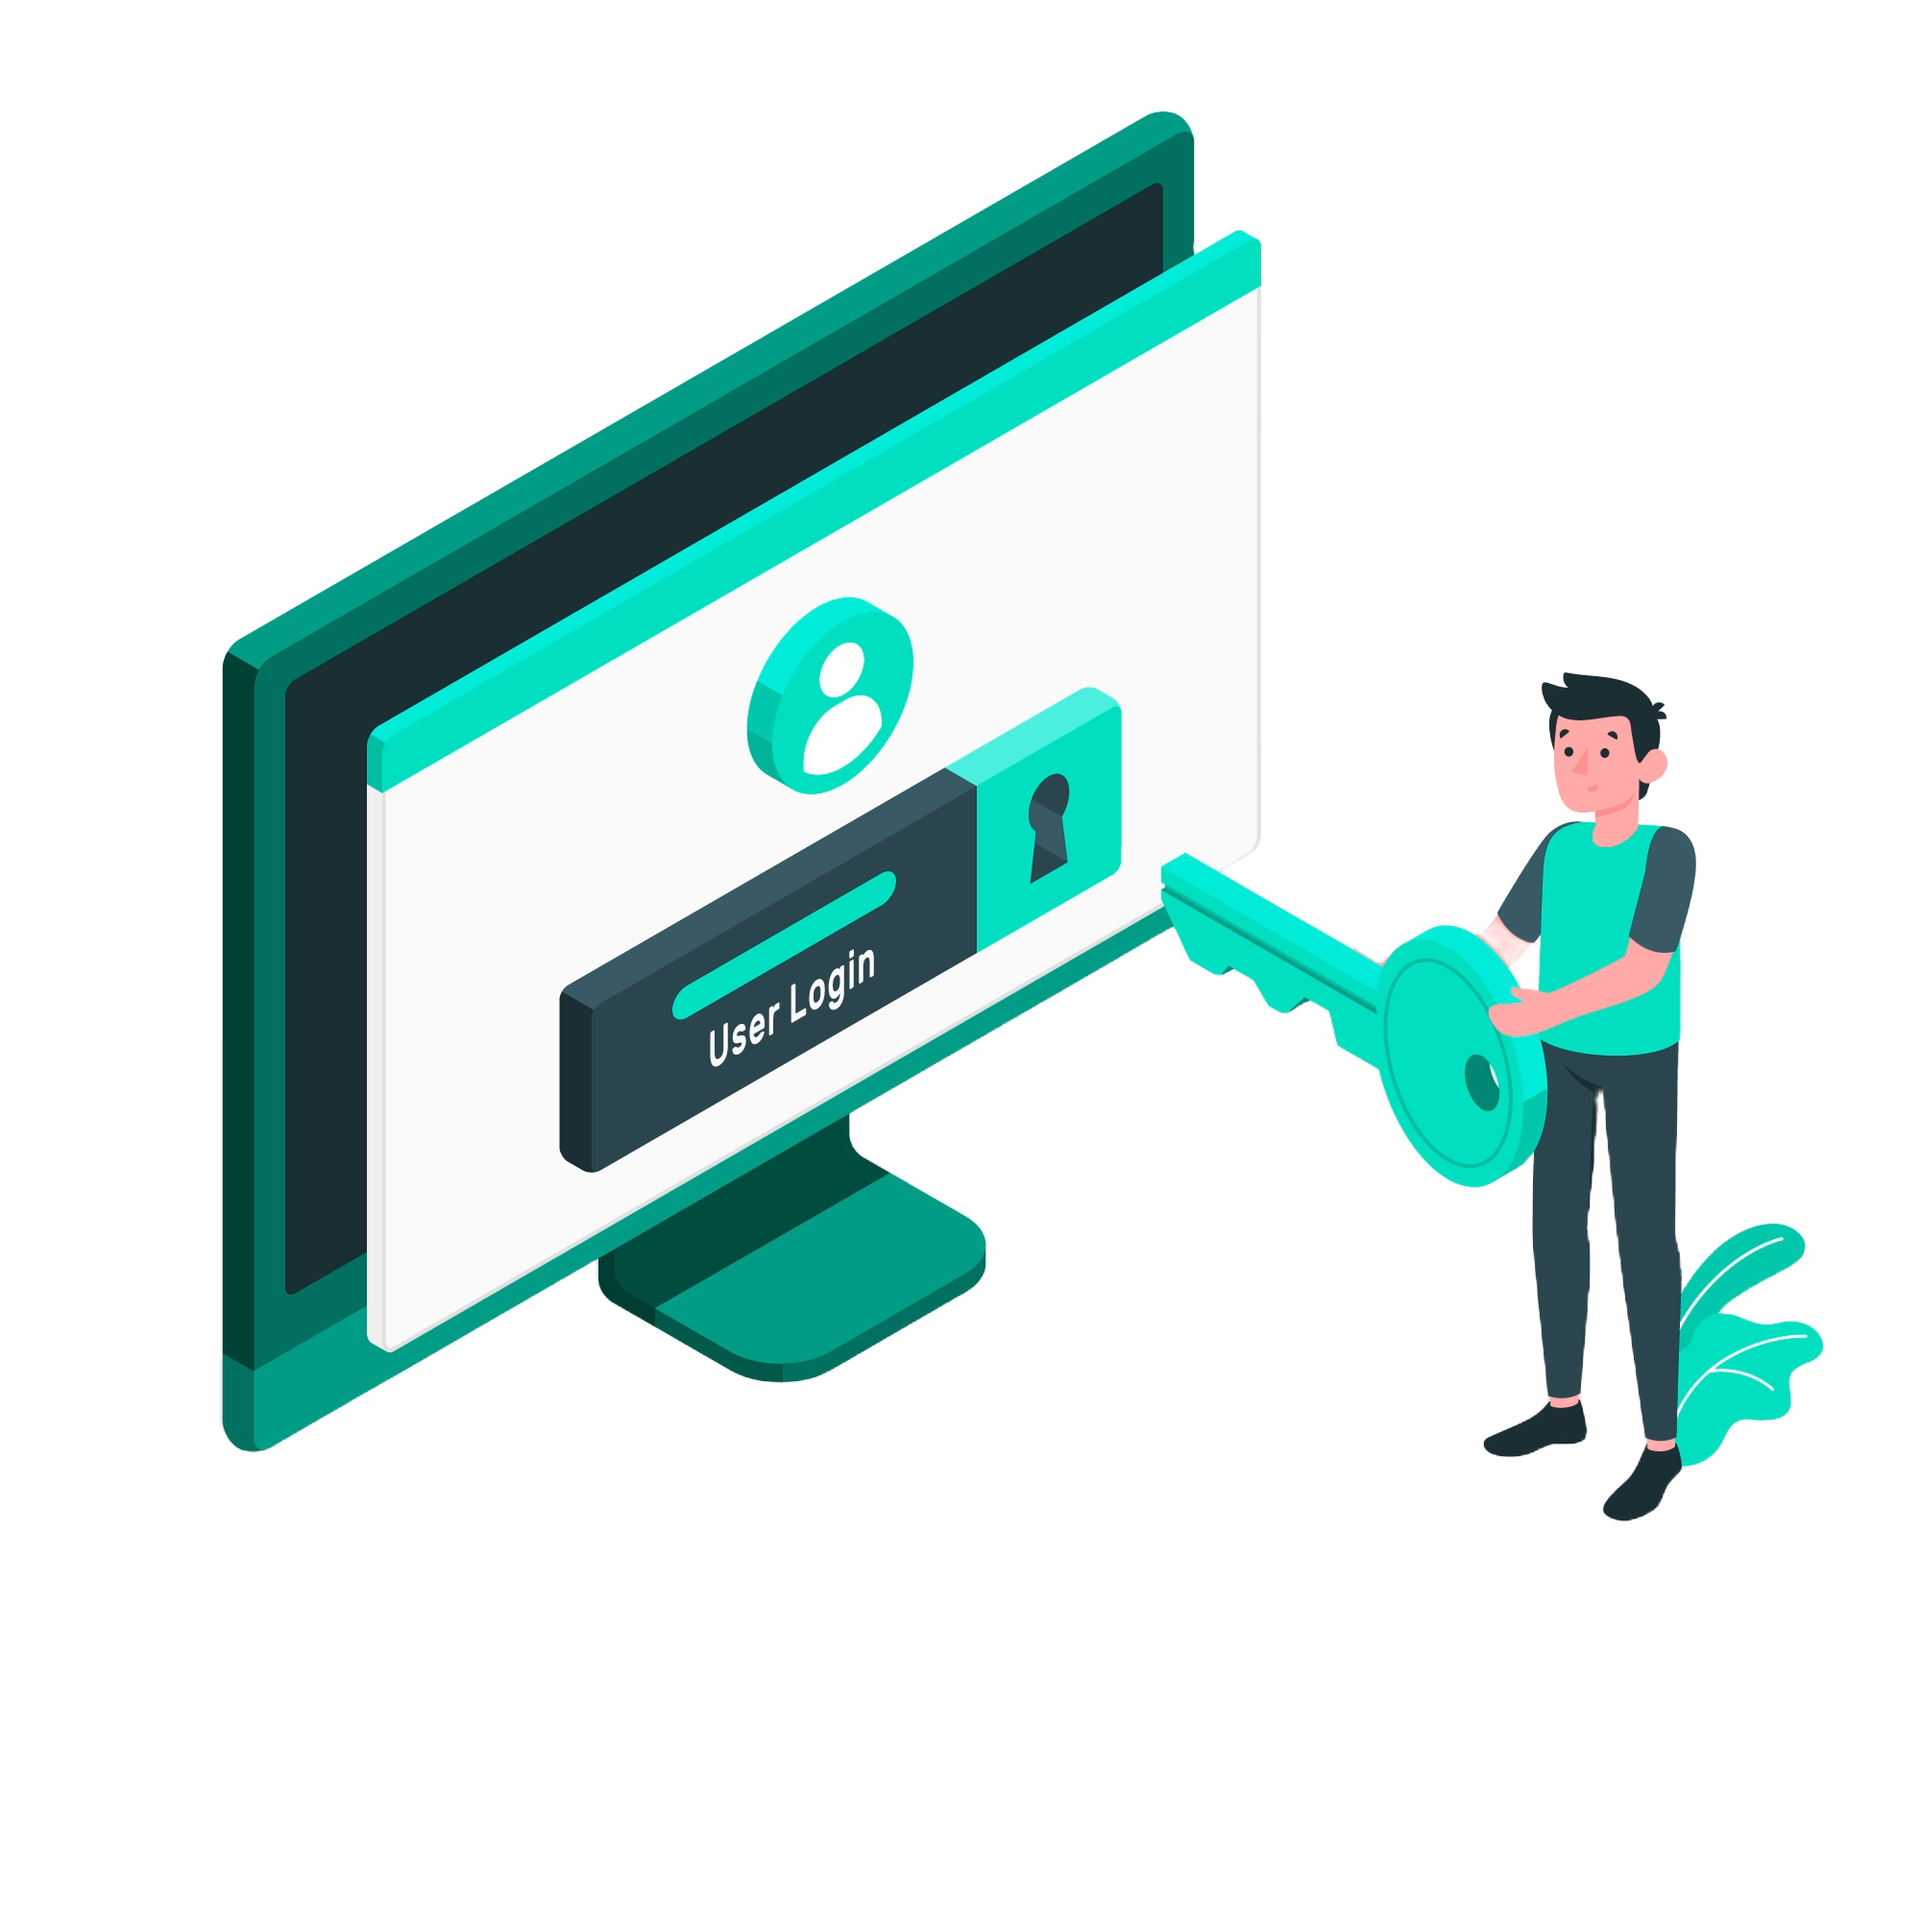
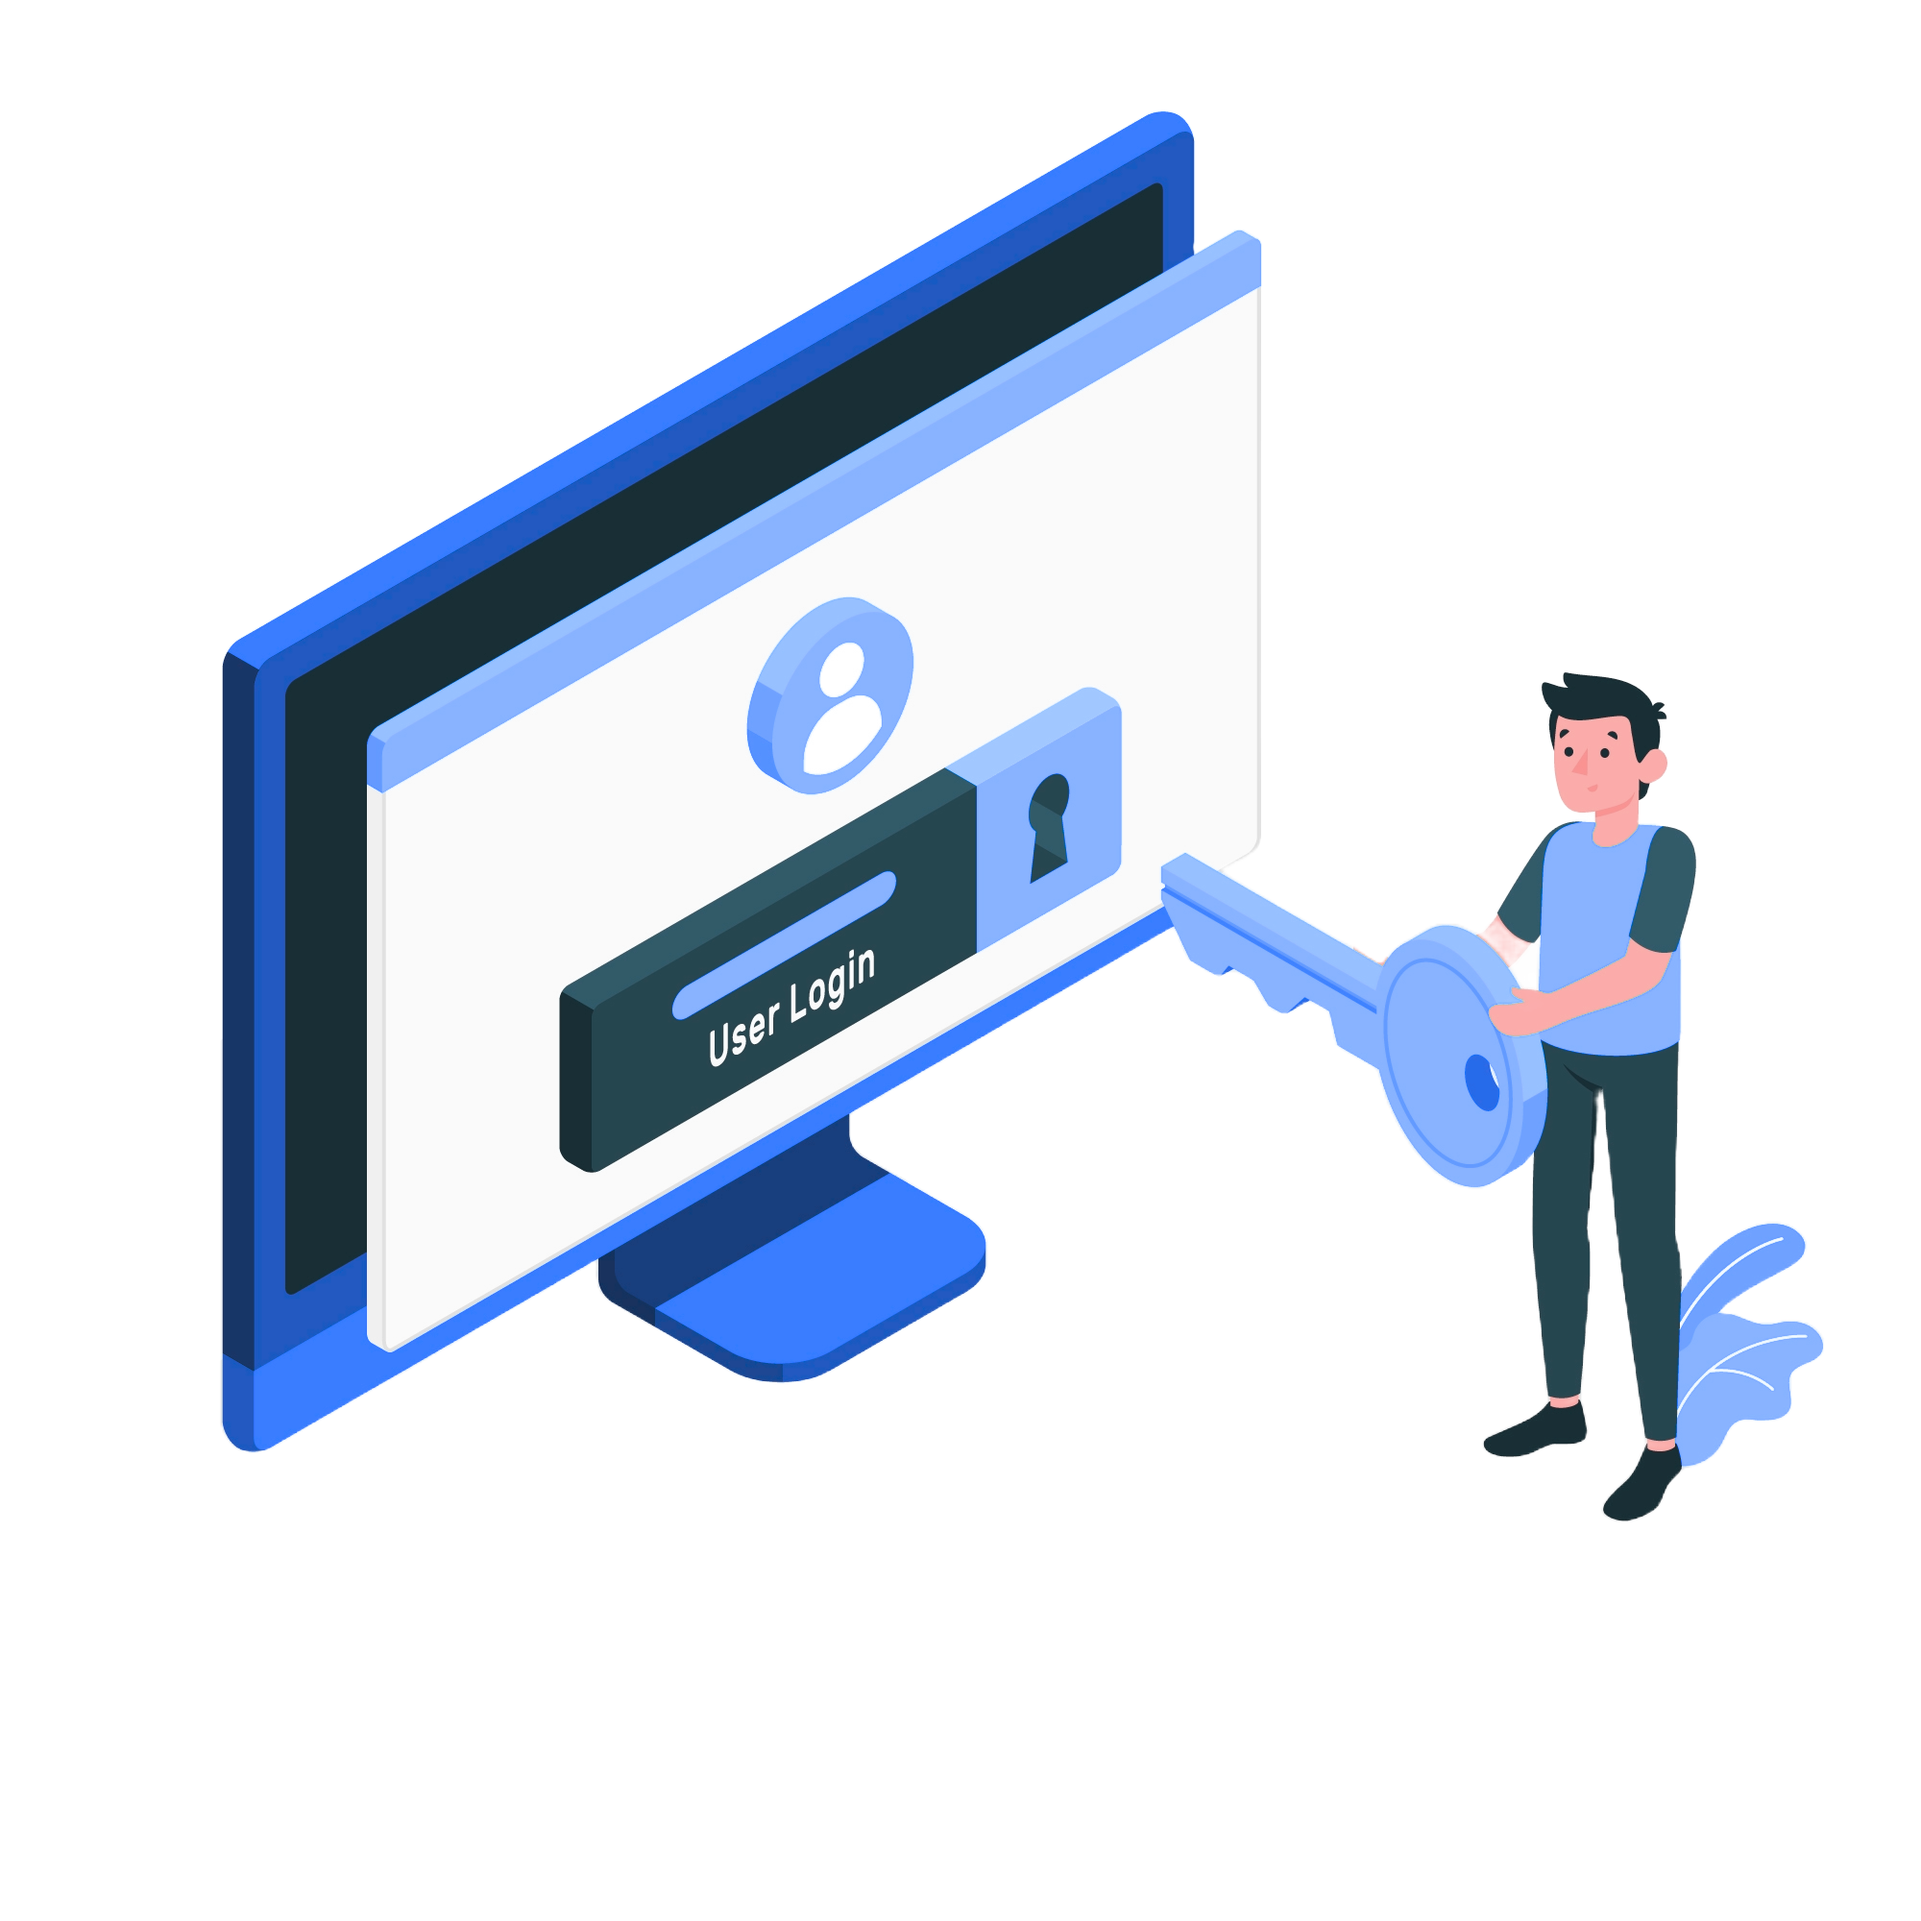
commit

diff --git a/src/App.css b/src/App.css
@@ -134,7 +134,7 @@ p {
 .authPage .container form .inputTag div svg {
   width: 10%;
   font-size: 1.5rem;
-  background: #044199;
+  background: #2cd7e0;
   height: 100%;
   padding: 8px;
   color: #fff;
@@ -146,7 +146,7 @@ p {
   margin-top: 25px;
   font-weight: 700;
   color: #fff;
-  background: #044199;
+  background: #2cd7e0;
   font-size: 1.2rem;
   border-radius: 7px;
   cursor: pointer;
@@ -158,10 +158,10 @@ p {
 .authPage .container form a {
   padding: 12px;
   text-align: center;
-  border: 1px solid #044199;
+  border: 1px solid #2cd7e0;
   margin-top: 25px;
   font-weight: 700;
-  color: #044199;
+  color: #2cd7e0;
   font-size: 1.2rem;
   text-decoration: none;
   border-radius: 7px;
@@ -223,7 +223,7 @@ p {
   color: #f1f3f6;
 }
 .footerShow div a:hover {
-  color: #044199;
+  color: #2cd7e0;
   transform: scale(1.2);
   transition: all 0.3s;
 }
@@ -305,7 +305,7 @@ p {
   align-items: center;
   justify-content: center;
   padding: 10px;
-  color: #044199;
+  color: #2cd7e0;
 }
 .heroSection .details .card .content p:first-child {
   font-weight: bold;
@@ -410,7 +410,7 @@ p {
 }
 .howitworks .container .banner .card svg {
   font-size: 30px;
-  color: #044199;
+  color: #2cd7e0;
 }
 .howitworks .container .banner .card p:last-child {
   font-size: 14px;
@@ -474,7 +474,7 @@ p {
   font-size: 24px;
   padding: 10px;
   background: rgb(233, 249, 255);
-  color: #044199;
+  color: #2cd7e0;
   display: flex;
   align-items: center;
   justify-content: center;
@@ -549,7 +549,7 @@ p {
 .companies .container .banner .card .content .icon {
   padding: 10px;
   font-size: 24px;
-  color: #044199;
+  color: #2cd7e0;
   background: rgb(233, 249, 255);
   display: flex;
   justify-content: center;
@@ -564,7 +564,7 @@ p {
   color: gray;
 }
 .companies .container .banner .card button {
-  color: #044199;
+  color: #2cd7e0;
   background: rgb(233, 249, 255);
   font-weight: bold;
   font-size: 20px;
@@ -648,7 +648,7 @@ p {
   text-decoration: none;
   padding: 7px;
   font-size: 20px;
-  color: #044199;
+  color: #2cd7e0;
   background: rgb(233, 249, 255);
   width: 100%;
   display: block;
@@ -693,14 +693,14 @@ p {
 }
 .jobDetail .container .banner p {
   font-weight: bold;
-  color: #044199;
+  color: #2cd7e0;
 }
 .jobDetail .container .banner p span {
   color: #18191c;
   font-weight: 400;
 }
 .jobDetail .container .banner a {
-  background-color: #044199;
+  background-color: #2cd7e0;
   color: rgb(233, 249, 255);
   font-size: 20px;
   font-weight: 400;
@@ -754,7 +754,7 @@ p {
   outline: none;
 }
 .application .container form button {
-  background-color: #044199;
+  background-color: #2cd7e0;
   color: rgb(233, 249, 255);
   font-size: 20px;
   font-weight: 400;
@@ -952,7 +952,7 @@ p {
 }
 .job_post .container form button {
   width: 100%;
-  background: #044199;
+  background: #2cd7e0;
   font-size: 20px;
   padding: 10px 30px;
   border: none;
@@ -1186,7 +1186,7 @@ nav .menu button {
   padding: 7px;
   border: 1px solid #09066c;
   color: #ffffff;
-  background: #044199;
+  background: #2cd7e0;
   font-size: 20px;
   font-weight: 300;
 }
@@ -1290,7 +1290,7 @@ nav .hamburger {
     font-weight: 600;
   }
   nav .show-menu button:hover {
-    background: #044199;
+    background: #2cd7e0;
     color: #ffffff;
   }
 }
